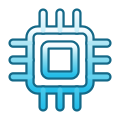
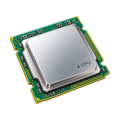
Replace schematic hardware with transparent dimensional illustrations in r48

diff --git a/restoration/tools/build_system_icons.py b/restoration/tools/build_system_icons.py
@@ -1,20 +1,9 @@
-"""Build transparent Warder vector icons; no receiver-side graphics dependency."""
+"""Build retained transparent Warder arrows and status icons; no receiver-side graphics dependency."""
 from pathlib import Path
 import cairosvg
 
 BASE=Path(__file__).resolve().parents[1]
 SHAPES={
-'mem':'<rect x="8" y="20" width="48" height="24" rx="3"/><path d="M16 44v7m8-7v7m8-7v7m8-7v7m8-7v7"/><path d="M16 27h10v10H16zm22 0h10v10H38z"/>',
-'swap':'<path d="M12 25a21 21 0 0 1 36-9l5 5M53 10v11H42M52 39a21 21 0 0 1-36 9l-5-5M11 54V43h11"/>',
-'summ':'<rect x="17" y="9" width="38" height="30" rx="4"/><rect x="9" y="25" width="38" height="30" rx="4"/><path d="M17 35h22m-22 9h16"/>',
-'root':'<rect x="12" y="8" width="40" height="48" rx="5"/><path d="M12 44h40M37 18 27 35"/><circle cx="44" cy="50" r="1"/>',
-'hdd':'<rect x="10" y="7" width="44" height="50" rx="5"/><circle cx="32" cy="28" r="13"/><circle cx="32" cy="28" r="3"/><path d="m44 15-12 13M10 47h44m-10 5h1"/>',
-'usb':'<path d="M23 24V9h18v15M22 24h20v27l-5 6H27l-5-6zM29 14v5m6-5v5M28 34h8v10h-8z"/>',
-'cf':'<rect x="10" y="9" width="44" height="46" rx="4"/><path d="M18 12v6m7-6v6m7-6v6m7-6v6m7-6v6M18 29h28v16H18zM22 34h8m-8 6h8m8-6h5m-5 0v9"/>',
-'sd':'<path d="M22 7h28v50H14V16zM23 9v11m8-11v11m8-11v11m-16 9h18v18H23z"/>',
-'hdd_temp':'<rect x="6" y="12" width="32" height="43" rx="4"/><circle cx="22" cy="29" r="10"/><path d="M6 44h26M47 34V12a5 5 0 0 1 10 0v22a10 10 0 1 1-10 0M52 20v22"/>',
-'cpu':'<rect x="16" y="16" width="32" height="32" rx="4"/><rect x="24" y="24" width="16" height="16" rx="2"/><path d="M23 7v9m9-9v9m9-9v9M23 48v9m9-9v9m9-9v9M7 23h9m-9 9h9m-9 9h9m32-18h9m-9 9h9m-9 9h9"/>',
-'sensor':'<path d="M18 39V12a6 6 0 0 1 12 0v27a11 11 0 1 1-12 0M24 20v27M39 21c11 5 11 17 0 22m6-29c18 9 18 27 0 36"/>',
 'lr':'<path d="m24 15-17 17 17 17m16-34 17 17-17 17M8 32h48"/>',
 'updown':'<path d="M15 24 32 7l17 17M15 40l17 17 17-17M32 8v48"/>',
 }

diff --git a/restoration/tests/test_warder_system.py b/restoration/tests/test_warder_system.py
@@ -56,7 +56,7 @@ class TransparentSystemIconTests(unittest.TestCase):
                 offset+=12+size
             first=zlib.decompress(b''.join(chunks))[:481]
             self.assertEqual(set(first[1:]),{0},file.name)
-            self.assertLess(len(raw),20000)
+            self.assertLess(len(raw),40000)
 
     def test_every_system_picture_is_mapped_to_a_shipped_asset_without_distortion(self):
         plugin=load(ROOT)
@@ -75,3 +75,14 @@ class TransparentSystemIconTests(unittest.TestCase):
                     iw,ih=map(int,n.get('size').split(','));self.assertEqual(iw,ih)
                 found+=1
             self.assertGreaterEqual(found,20)
+
+    def test_user_approved_arrows_and_status_assets_are_unchanged(self):
+        import hashlib
+        expected={
[4 lines of base64/hex data omitted]
+        }
+        for name,digest in expected.items():
+            self.assertEqual(hashlib.sha256((ROOT/'images'/('system-'+name+'.png')).read_bytes()).hexdigest(),digest)

diff --git a/restoration/tools/prepare_system_raster.py b/restoration/tools/prepare_system_raster.py
@@ -1,0 +1,19 @@
+"""Mechanically size approved transparent hardware masters for Enigma2.
+
+Uses ImageMagick on the build machine only; never installed on the receiver.
+No matte, recoloring, background removal or generative edits are performed here.
+"""
+from pathlib import Path
+import subprocess
+
+BASE=Path(__file__).resolve().parents[1]
+NAMES=('mem','swap','summ','root','hdd','usb','cf','sd','hdd_temp','cpu','sensor')
+
+
+def prepare():
+    for name in NAMES:
+        source=BASE/'artwork/system-raster'/(name+'.png')
+        output=BASE/'src/GlassSysUtil/images'/('system-'+name+'.png')
+        subprocess.run(['convert',str(source),'-trim','+repage','-resize','100x100','-background','none','-gravity','center','-extent','120x120','-strip','PNG32:'+str(output)],check=True)
+
+if __name__=='__main__':prepare()

diff --git a/restoration/README.md b/restoration/README.md
@@ -11,7 +11,7 @@ Runtime changes are explicit: normal Python source instead of version-selected b
 
 The original SD/FHD/UHD skin definitions and original graphics/font/translations are retained. Since r41, the main menu uses the approved common Warder presentation through a separate native XML layout; functional sub-screens still retain their recovered original style. `resources.tar.gz` is a deterministic archive of the actual runtime assets, individually pinned by `resources.json`. Legacy Python cores, `/usr/bin/ftplib.py` and the old bytecode-selecting installer are not installed. Configuration templates are supplied only where the receiver has no existing file. The retired user-script defaults are no longer shipped.
 
-Build: `python3 restoration/tools/build_ipk.py`. The output is one deterministic `enigma2-plugin-glasssysutil_13.40-r47_all.ipk`. All runtime Python files compile under 3.14.7. Host tests exercise imports with native API doubles, all original signatures and main-menu contexts, and local OSCam configuration/authentication. They cannot validate real tuners, mounts, CAM restart, package operations or other receiver changes. Those remain unverified until tested on hardware. Original FTP services and legacy native helper ABI availability are external compatibility limits, not functionality verified by source recovery. Restoration updates use the isolated original-python314 feed; production dashboards and their existing update channel remain unchanged.
+Build: `python3 restoration/tools/build_ipk.py`. The output is one deterministic `enigma2-plugin-glasssysutil_13.40-r48_all.ipk`. All runtime Python files compile under 3.14.7. Host tests exercise imports with native API doubles, all original signatures and main-menu contexts, and local OSCam configuration/authentication. They cannot validate real tuners, mounts, CAM restart, package operations or other receiver changes. Those remain unverified until tested on hardware. Original FTP services and legacy native helper ABI availability are external compatibility limits, not functionality verified by source recovery. Restoration updates use the isolated original-python314 feed; production dashboards and their existing update channel remain unchanged.
 
 The original AGC converter is retained under the unique `GSUAgcConv` name to avoid replacing another skin’s converter. Its progress value is an integer for the current native GUI API. Skin-file hashes verify that the converter reference is the only change to the original SD/FHD/UHD skin definitions.
 
@@ -296,3 +296,7 @@ Move full-screen artwork/frame/panel to z=-3/-2/-1 so native ScrollLabel parent 
 ## r47 transparent system icons
 
 Fifteen native120x120 RGBA assets replace old system device/arrows/status pictures. Reusable SVG sources and optional CairoSVG build script are retained; receivers need only prepared PNG files. No black matte, no reflection; square contain placement preserves proportions. Original collectors and controls remain.
+
+## r48 recognizable hardware illustrations
+
+User rejected schematic device vectors and requested colorful dimensional hardware icons closer to the originals, with real transparency. Eleven device images are replaced with prepared120px RGBA illustrations; arrows and status dots remain byte-identical.512px artwork masters and prompts are retained outside the receiver package. Existing layout, collectors and remote-control actions are unchanged.

diff --git a/restoration/artwork/system-raster/README.md b/restoration/artwork/system-raster/README.md
@@ -1,0 +1,7 @@
+# Hardware icon masters
+
+User requested colorful dimensional hardware, close in meaning to the original GSU device illustrations, with genuine alpha transparency and no black matte, floor or reflection. These replace the rejected schematic hardware vectors. Navigation arrows and status dots remain unchanged.
+
+The illustrations were generated with the built-in imagegen tool, using the first RAM module as a visual rendering reference. Per-icon prompts and source checksums are recorded in the adjacent provenance manifest. Masters are mechanically contained at512px; the package receives only padded120px RGBA icons generated by `restoration/tools/prepare_system_raster.py` (ImageMagick). No build-time graphics tools or masters are installed on the receiver.
+
+Source preservation and image-size preparation do not recolor, synthesize alpha, remove backgrounds or alter the generated subject.

diff --git a/restoration/update/RELEASE-NOTES.md b/restoration/update/RELEASE-NOTES.md
@@ -1,6 +1,6 @@
-GSU 13.40-r47
+GSU 13.40-r48
 
-- Nové jednotné strieborno-tyrkysové ikonky v Informáciách o systéme.
-- Skutočne priehľadné pozadie bez čiernych obdĺžnikov a odrazov.
-- Zachovaný význam RAM, swapu, súhrnu, diskov, USB, kariet, CPU, teplôt a smerových šípok.
-- Ikony sa zobrazujú bez deformácie; jednotné zelené a červené stavové značky.
+- Farebné plastické ikonky hardvéru namiesto schematických symbolov.
+- Názorné RAM moduly, disky, USB, pamäťové karty, čipy a teplomery so skutočne priehľadným okolím.
+- Bez čiernych dlaždíc, podkladov a odrazov.
+- Schválené šípky aj zelené a červené stavové bodky zostávajú nezmenené.
